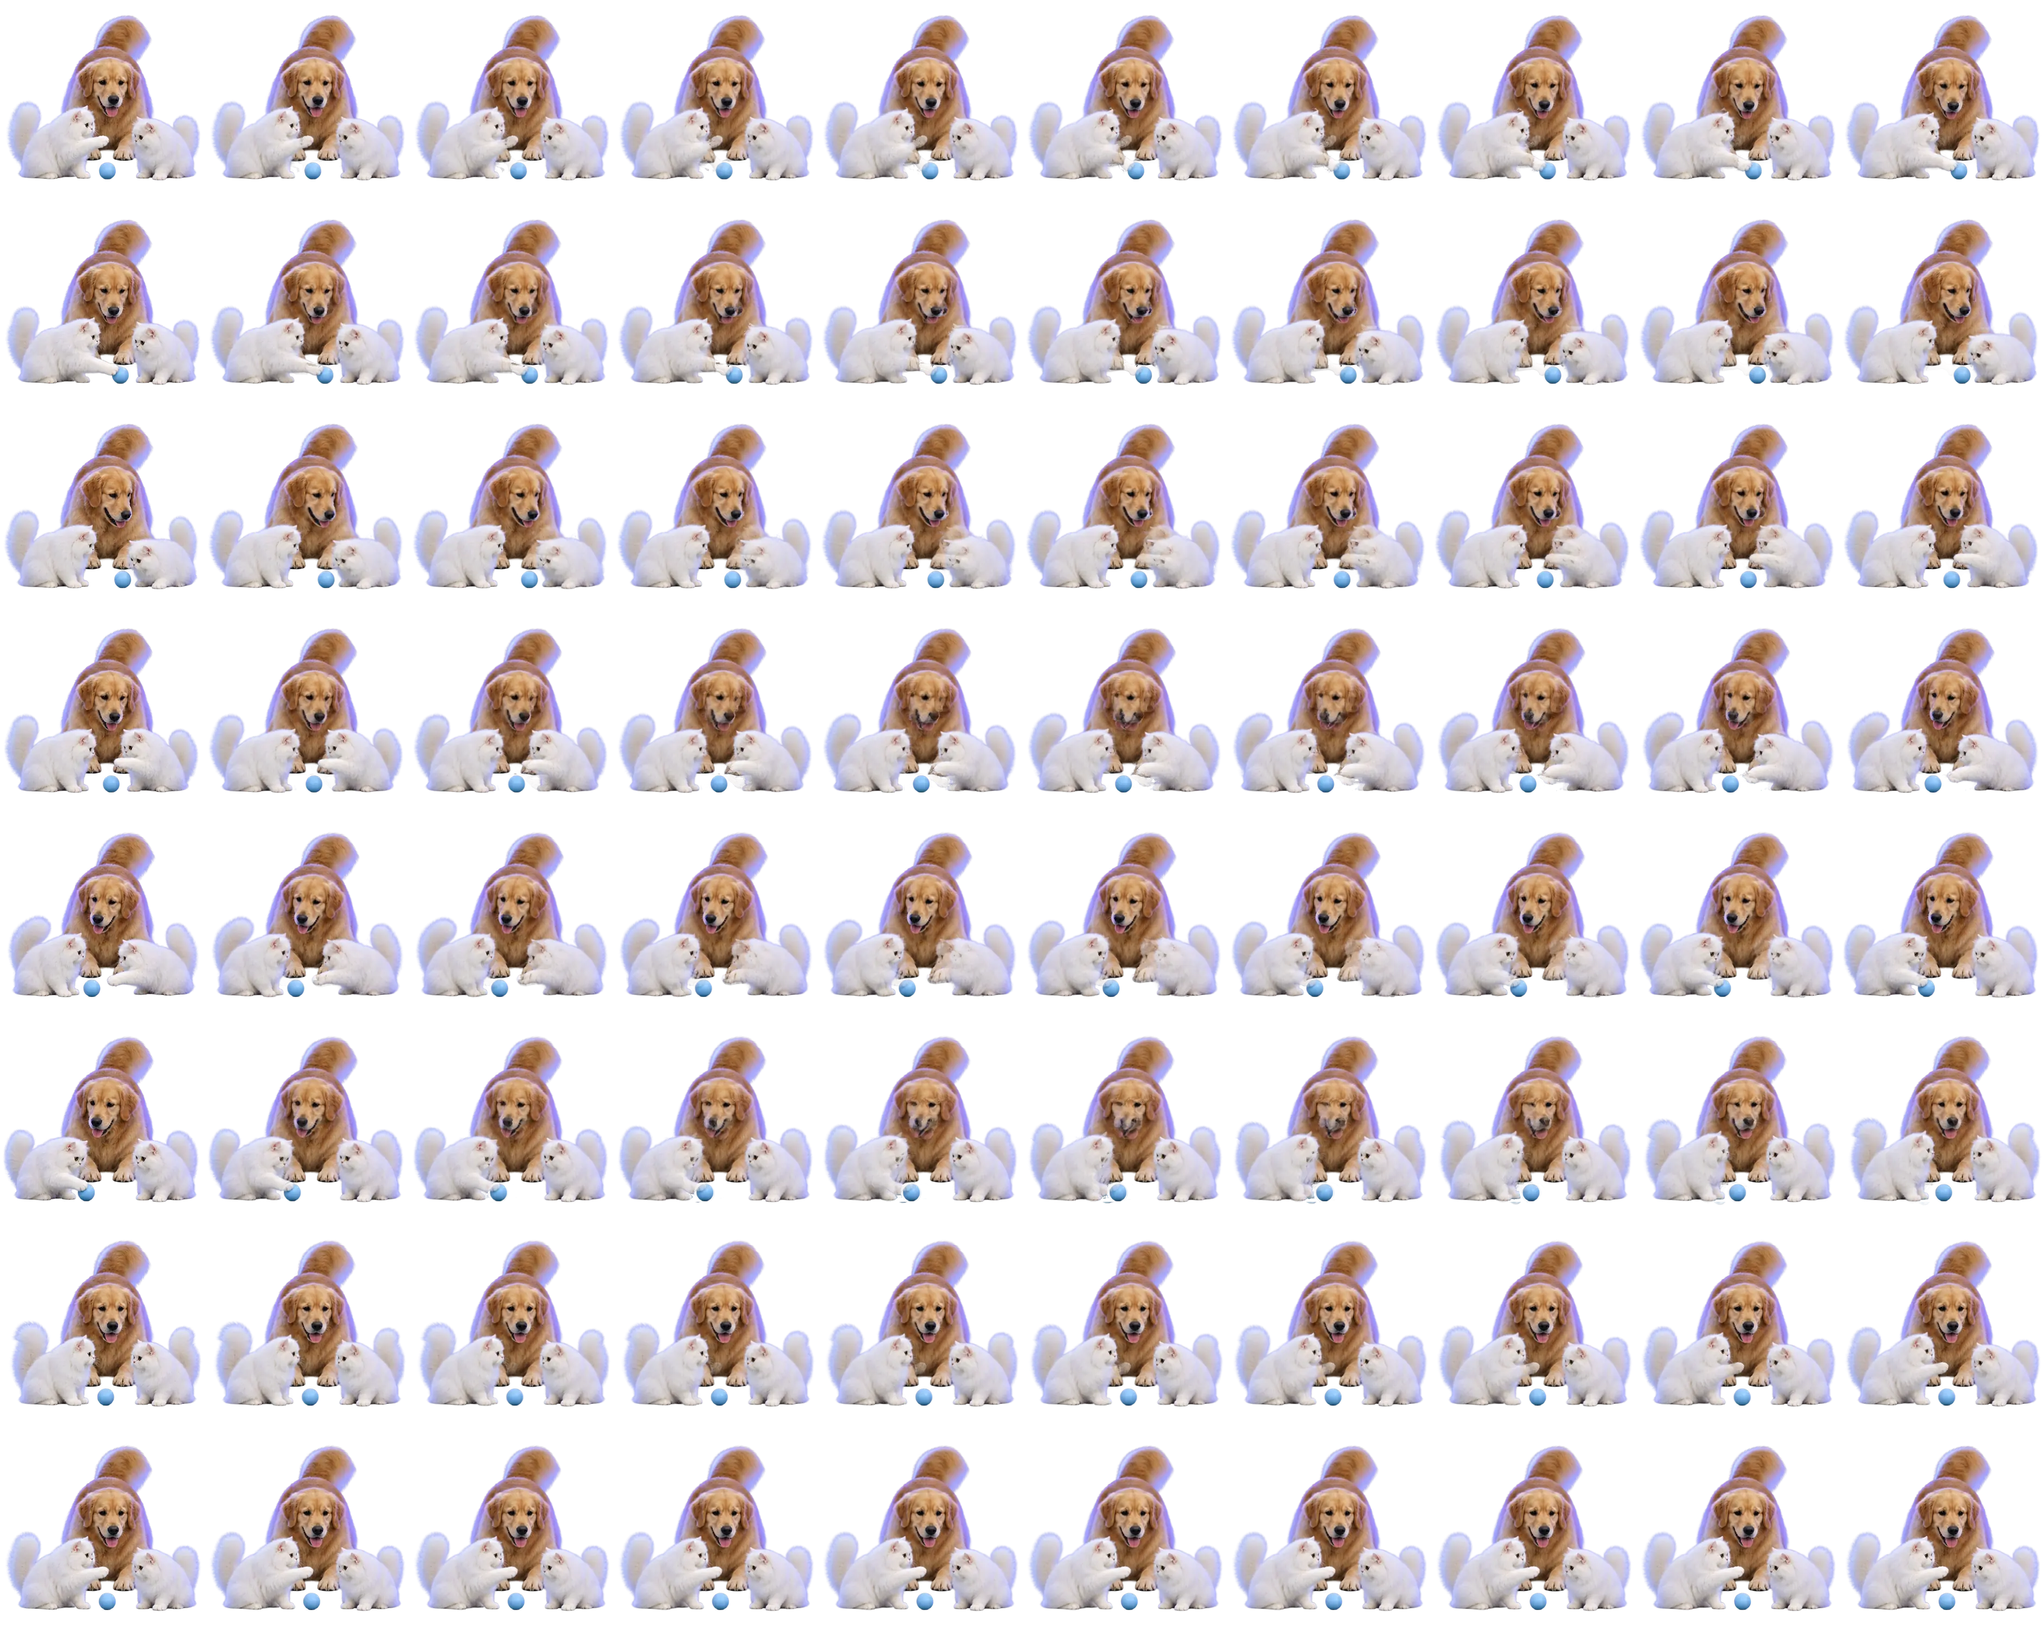
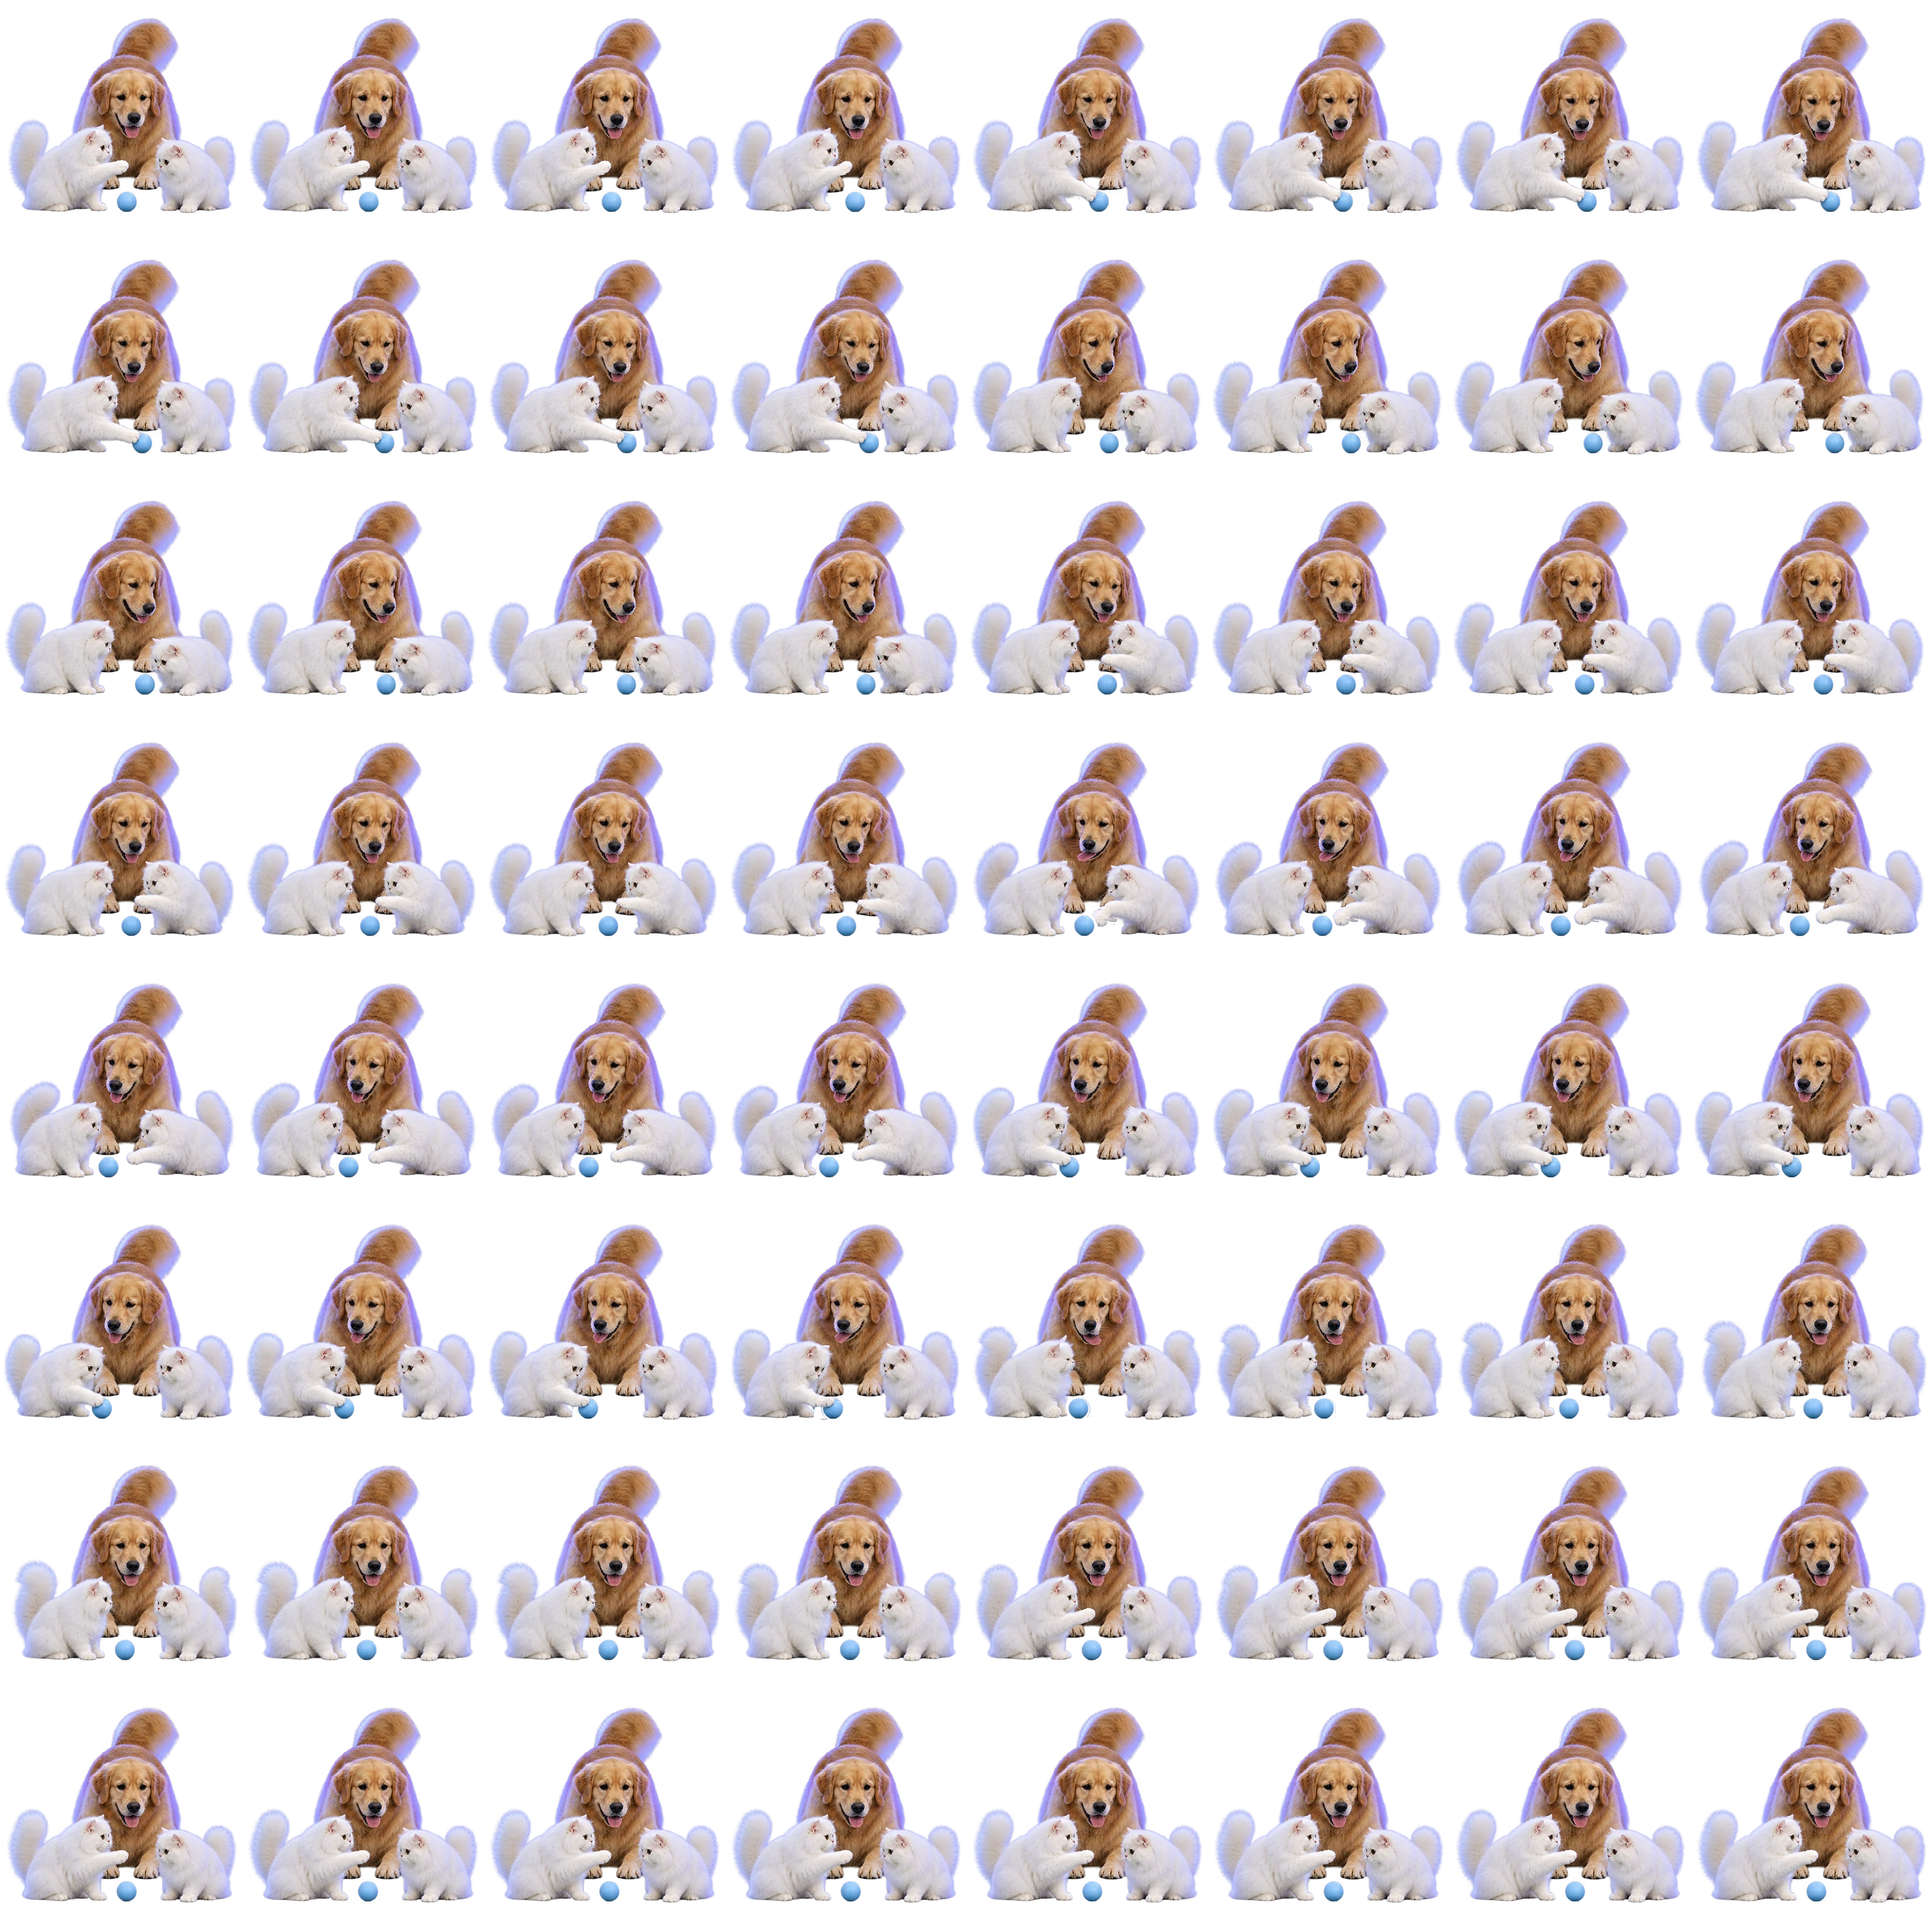
fix: sharpen About animal animation

diff --git a/components/sections/About.module.css b/components/sections/About.module.css
@@ -35,15 +35,14 @@
   position: absolute;
   inset: 0;
   background: url("/about/animals-rest.webp") 0 0 / 100% 100% no-repeat;
-  filter: saturate(0.82) drop-shadow(0 12px 20px rgba(15, 22, 40, 0.14));
 }
 
 @media (prefers-reduced-motion: no-preference) {
   .animals[data-frames-ready="true"] {
-    /* Each row blends one pose into the next across ten frames. */
+    /* Each row contains eight frames moving from one pose to the next. */
     background-image: url("/about/animals-motion.webp");
-    background-size: 1000% 800%;
-    animation: animal-frames 400ms steps(10) infinite,
+    background-size: 800% 800%;
+    animation: animal-frames 400ms steps(8) infinite,
       animal-poses 3200ms steps(8) infinite;
     animation-play-state: var(--about-animation-state);
   }
@@ -57,7 +56,7 @@
 
 @keyframes animal-frames {
   from { background-position-x: 0; }
-  to { background-position-x: calc(1000% / 9); }
+  to { background-position-x: calc(800% / 7); }
 }
 
 @keyframes animal-poses {
